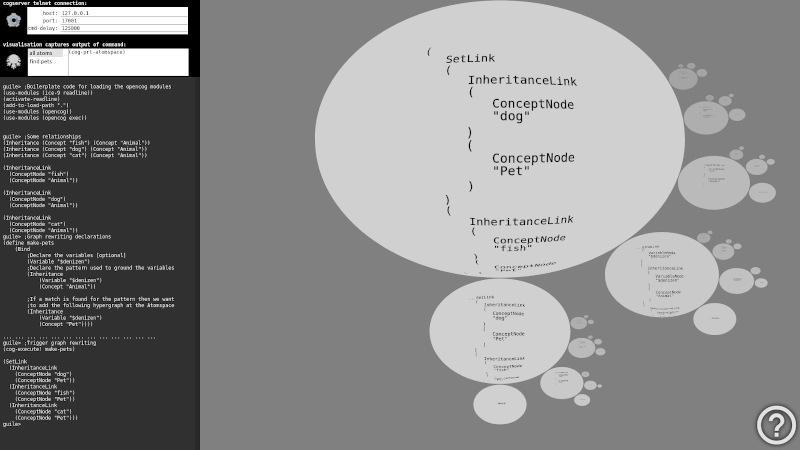
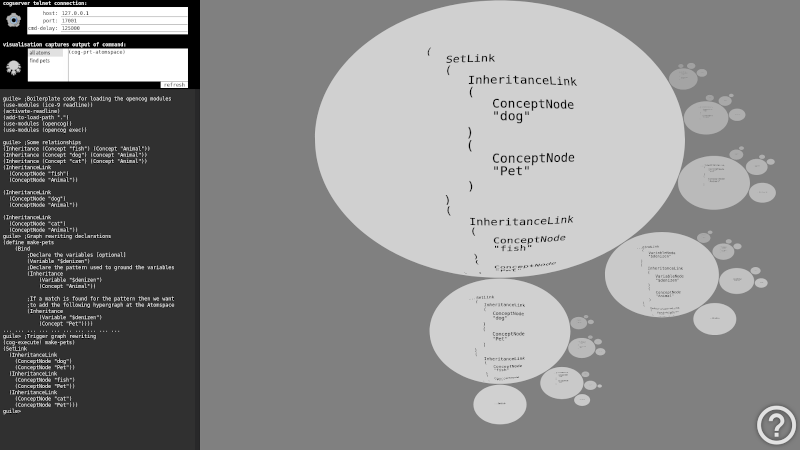
added refresh button

Changed region(s): [[0.0, 0.0933, 0.25, 0.9644], [0.1875, 0.5911, 0.2188, 0.6222]]

diff --git a/ctrl.html b/ctrl.html
@@ -70,7 +70,8 @@
                         </td>
                         <td>
                             <select id="list-cmd" onfocus="document.getElementById('list-cmd').onchange()" onchange="document.getElementById('visual-cmd').value=document.getElementById('list-cmd').value" name="list-cmd" size="3" style="outline: none; border-style: none; padding:0; margin:0;">
-                            </select><textarea id="visual-cmd" spellcheck="false" wrap="off" rows="3" style="border-style: none; border-style: none; border-left: 1px solid black; resize: none; outline: none; padding: 0; margin: 0; font-family: 'monospace'; background-color: white; color: black;"></textarea>
+                            </select><textarea id="visual-cmd" spellcheck="false" wrap="off" rows="3" style="border-style: none; border-left: 1px solid black; resize: none; outline: none; padding: 0; margin: 0; font-family: 'monospace'; background-color: white; color: black;"></textarea>
+                            <div align="right" style="border-top: 1px solid black;"><label id="refresh" onclick="refresh()" onmouseenter="document.getElementById('refresh').style.backgroundColor='lightgray'" onmouseleave="document.getElementById('refresh').style.backgroundColor='white'" style="background-color: white; color: black; font-family: 'monospace';">&nbsp;refresh&nbsp;</label></div>
                         </td>
                     </tr>
                 </table>
@@ -134,6 +135,8 @@
                     ["DIS", ["SEQ", "ws"]]
                 ]
             ];
+            
+            var ecol='lightgray'
 
             var error;
             var pad = false;
@@ -397,13 +400,17 @@
                 });
             }
             
-            sendcmd (document.getElementById ("visual-cmd").value.replaceAll("\n", " ").replaceAll("\r", " ") + "\n").then (
-                (response) => {
-                    if (response.substr(-"connection error".length) !== "connection error") {
-                        sendstr (response.replaceAll("\u001b[0", "").trim());
+            function refresh() {
+                sendcmd (document.getElementById ("visual-cmd").value.replaceAll("\n", " ").replaceAll("\r", " ") + "\n").then (
+                    (response) => {
+                        if (response.substr(-"connection error".length) !== "connection error") {
+                            sendstr (response.replaceAll("\u001b[0", "").trim());
+                        }
                     }
-                }
-            );
+                );
+            }
+            
+            refresh();
         </script>
       </section>
     </body>

diff --git a/README.md b/README.md
@@ -81,3 +81,4 @@ Entering the above commands to *CogProtoLab* command prompt should give a basic 
 ## licensing information
 
 This package, like the most of OpenCog packages, is licensed under [agplv3 License](LICENSE).
+

diff --git a/changelog.md b/changelog.md
@@ -1,4 +1,5 @@
-# changelog of CogProtoLab development
+# changelog of cogprotolab development
 
 - **Jan, 2022**
     - initial commit
+    - added refresh button
